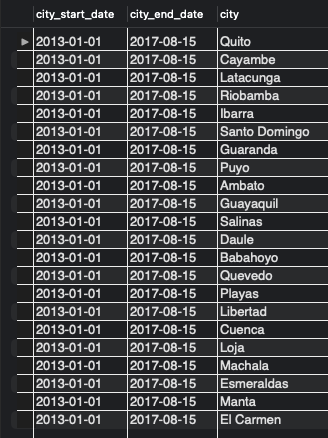
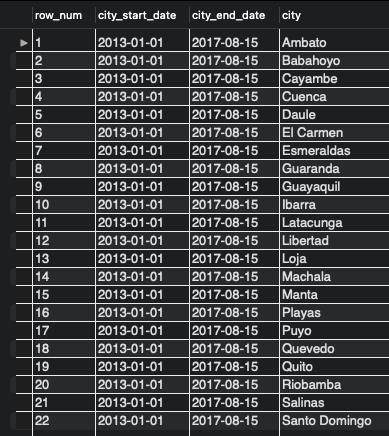
add new sub-section Holidays - still not completed

diff --git a/docs/sql_query.md b/docs/sql_query.md
@@ -34,7 +34,7 @@ The 5 main files used in our analysis are the following csv files which are loca
 
 
 | File name | Table name (In database) | Table name (In query)
-| :--- | :---: | :---
+| :--- | :---: | :---:
 | holiday_events.csv | holiday_events | `hols`
 | oil.csv | oil | `o`
 | stores.csv | stores | `st`
@@ -70,15 +70,26 @@ As train table contains the most number of rows, consider it as the fact table a
 ### Timeline of cities
 Analyzing the length of each cities' timeline can give us a rough idea of how distributed each city time series between each other.
 
+Why prioritize analysis on cities? Because city is on a more granular level. By inspecting on city level, we ensure we do not miss out hidden patterns as compared to analysis done on state and national level.
+
 ```{code-cell}
+WITH CityStartEnd AS (
+  SELECT
+    MIN(tr.date) AS city_start_date,
+    MAX(tr.date) AS city_end_date,
+    st.city
+  FROM train AS tr
+  LEFT JOIN stores AS st
+    ON tr.store_nbr = st.store_nbr
+  GROUP BY st.city
+)
+
 SELECT
-  MIN(tr.date) AS city_start_date,
-  MAX(tr.date) AS city_end_date,
-  st.city
-FROM train AS tr
-LEFT JOIN stores AS st
-  ON tr.store_nbr = st.store_nbr
-GROUP BY st.city;
+  ROW_NUMBER() OVER (ORDER BY city) AS row_num,
+  city_start_date,
+  city_end_date,
+  city
+FROM CityStartEnd;
 ```
 
 Join `train` and `store` tables with `store_nbr` being the common column. We only join `city` instead of `state` as city is on a more granular level and one column is sufficient for now in this analysis.
@@ -114,3 +125,37 @@ ORDER BY city, store_nbr;
 ![Cities time points page 1](img/cities_time_points_page_1.png) | ![Cities time points page 2](img/cities_time_points_page_2.png)
 
 Looks like all cities are having the same number of time points. It is noted that Quito store number 1 has 1 less observation. During this high level analysis, it is not significant right now.
+
+### Holidays
+The Kaggle competition has provided [some noteworthy pointers about the holidays](https://www.kaggle.com/competitions/store-sales-time-series-forecasting/data). So it is better that we do some analysis on the holidays of each city, state and nation. 
+
+Due to how the Ecuador government decides the celebrated dates of the holiday, it poses some challenge in building the query. We need to be careful when merging the columns. Many times during the merging, we realized duplicated dates in `holidays_events` caused the query result to explode with additional rows with null values. The duplicated dates (`date` column) from `holidays_events` as the right table (recall that `train` is the main table, hence `train` is the left table) have resulted in a many-to-one relationship with `date` column in `train`.
+
+Also, we were given holidays for year 2012 when the `train` starts from 2013.
+
+Let's first count the number of holidays from 2013 to 2017 for each city and state, and also the nation itself.
+
+```{code-cell}
+WITH HolidayCounts AS (
+  SELECT
+    COUNT(hols.date) AS num_of_holidays,
+    hols.locale_name,
+    hols.locale,
+    st.state
+  FROM holidays_events AS hols
+  LEFT JOIN stores AS st
+    ON hols.locale_name = st.city
+  GROUP BY hols.locale_name, hols.locale, st.state
+)
+
+SELECT
+  ROW_NUMBER() OVER () AS row_num,
+  num_of_holidays,
+  locale,
+  locale_name,
+  state
+FROM HolidayCounts
+ORDER BY locale, locale_name;
+```
+
+![count_holidays](img/count_holidays.png)
